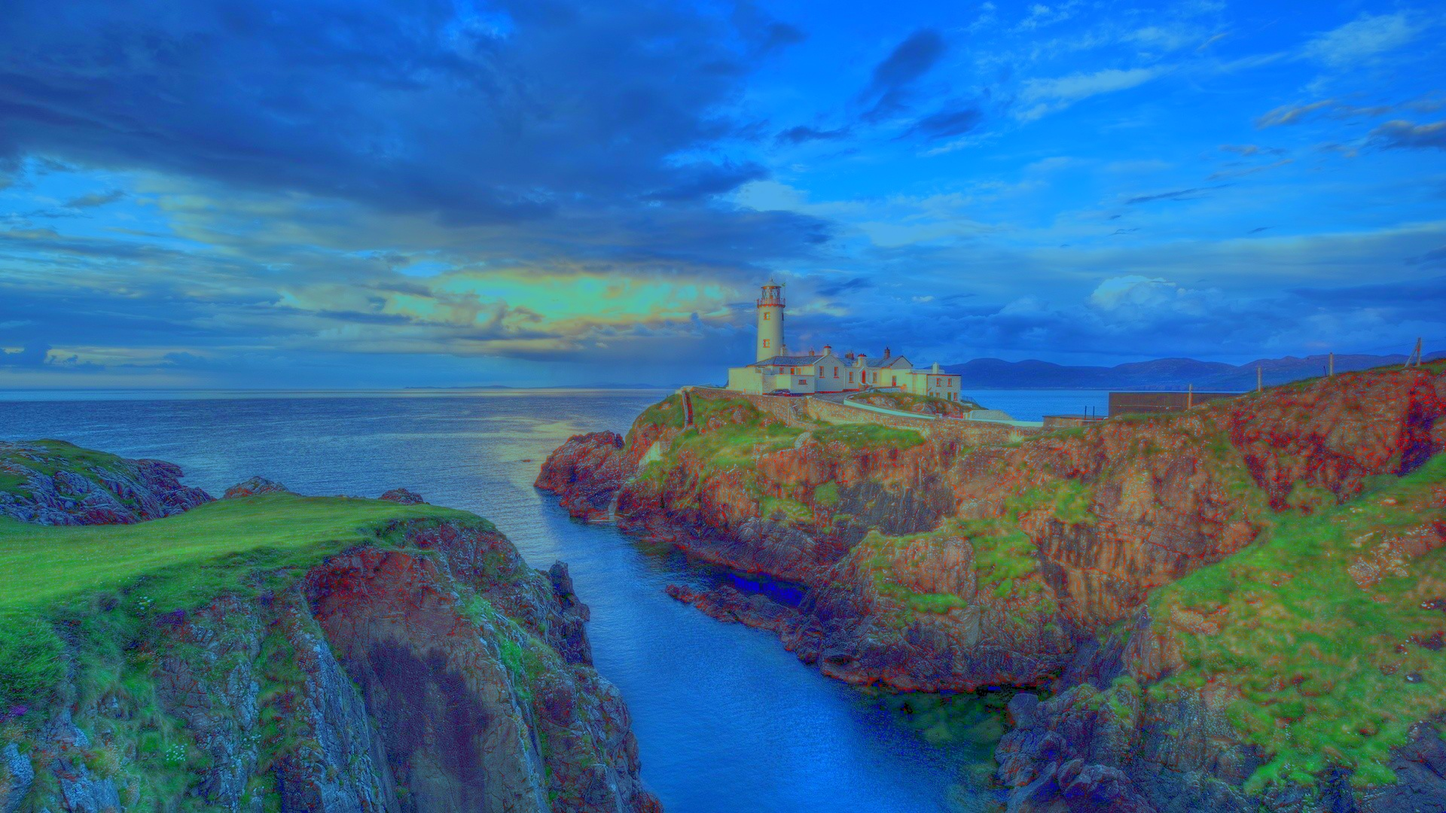
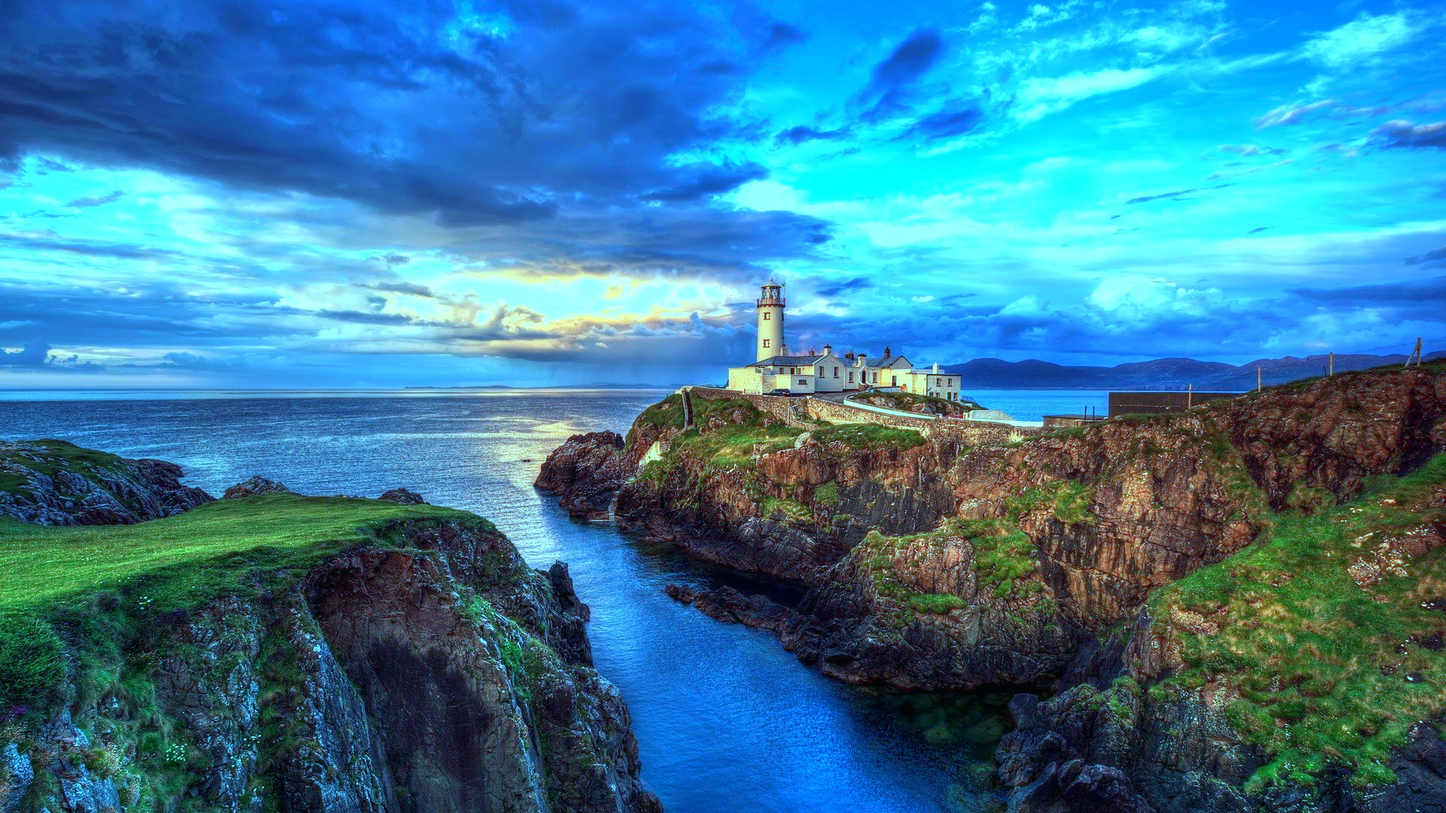
algorithm fixed + minor changes

diff --git a/main.cpp b/main.cpp
@@ -72,7 +72,7 @@ void showMat(Mat mat)
 }
 int main()
 {
-	unsigned img_pack = 1;
+	unsigned img_pack = 3;
 
 	/*Mat temp = imread(images[img_pack].source);
 	imshow(WND_NAME_RES, convertFromlab(convertTolab(temp)));
@@ -102,14 +102,24 @@ bool makeCT(ct_image images)
 	std::vector<Mat> imgs_lab_channels, imgt_lab_channels;
 	split(imgs_lab, imgs_lab_channels);
 	split(imgt_lab, imgt_lab_channels);
-
-	for(int i = 0; i < 3; i++)
-	{
-		imgs_lab_channels[i] = (imgs_lab_channels[i] - means.at<double>(i)) *
-		stddt.at<double>(i)/stdds.at<double>(i) + meant.at<double>(i);
-	}
 	showMinStd(imgs_lab, "in lab source");
 	showMinStd(imgt_lab, "in lab target");
+	for(int i = 0; i < 3; i++)
+	{
+		double koef;
+		if(stddt.at<double>(i) == stdds.at<double>(i))
+			koef = 1;
+		else
+			koef = stddt.at<double>(i)/stdds.at<double>(i);
+		if(stdds.at<double>(i) == 0)
+		{
+			printf("Single color in source image\n");
+			continue; // leave it same.
+		}
+		imgs_lab_channels[i] = (imgs_lab_channels[i] - means.at<double>(i)) *
+			koef + meant.at<double>(i);
+	}
+	
 	Mat result;
 	merge(imgs_lab_channels, result);
 	result = convertFromlab(result);
@@ -152,6 +162,8 @@ Mat convertTolab(Mat input)
 {
 	Mat img_RGB;
 	cvtColor(input, img_RGB, CV_BGR2RGB);
+	Mat min_mat = Mat::Mat(img_RGB.size(), CV_8UC3, Scalar(1, 1, 1));
+	max(img_RGB, min_mat, img_RGB); // VERY IMPORTANT, got it from Han Gong's code, and I don't know what for. Why it can't get black?
 	img_RGB.convertTo(img_RGB, CV_32FC1, 1/255.f);
 	showMinStd(img_RGB, "initial");
 	Mat img_lms;
